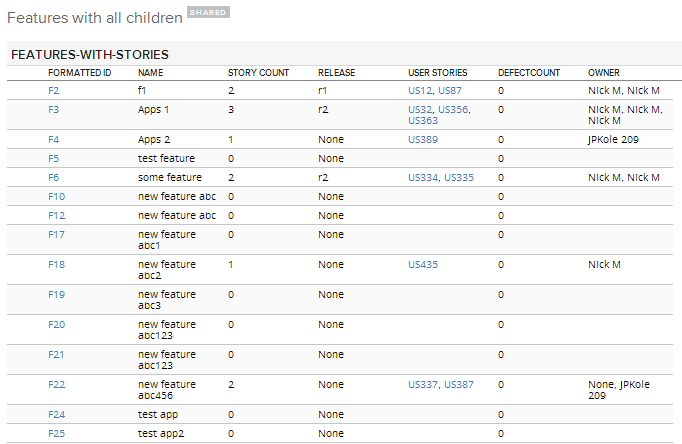
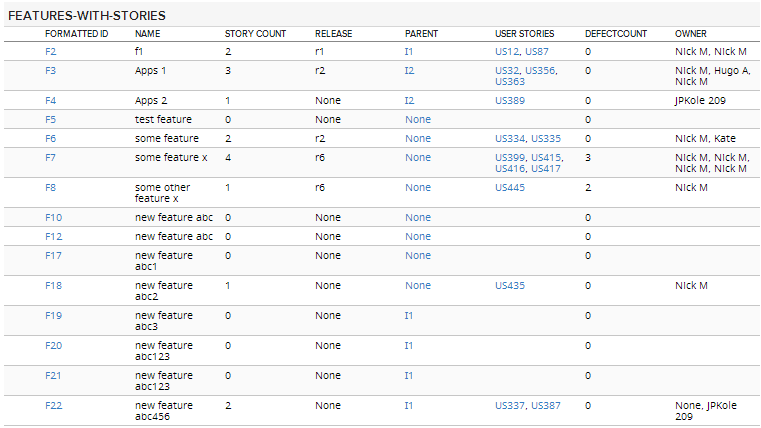
added Parent column

diff --git a/deploy/App.html b/deploy/App.html
@@ -16,7 +16,7 @@ Ext.define('CustomApp', {
     launch: function() {
         Ext.create('Rally.data.WsapiDataStore', {
             model: 'PortfolioItem/Feature',
-            fetch: ['FormattedID','Name','UserStories', 'Release'],
+            fetch: ['FormattedID','Name','UserStories', 'Release' ,'Parent'],
             pageSize: 100,
             autoLoad: true,
             listeners: {
@@ -30,11 +30,14 @@ Ext.define('CustomApp', {
                 var features = [];
                 var pendingstories = data.length;
                 Ext.Array.each(data, function(feature) {
+                            var parent = feature.get('Parent');
+                            
                             var f  = {
                                 FormattedID: feature.get('FormattedID'),
                                 Name: feature.get('Name'),
                                 Release: (feature.get('Release') && feature.get('Release')._refObjectName) || 'None',
                                 _ref: feature.get("_ref"),
+                                Parent: (parent && parent.FormattedID) || 'None',
                                 StoryCount: feature.get('UserStories').Count,
                                 DefectCount: 0,
                                 UserStories: []
@@ -66,10 +69,10 @@ Ext.define('CustomApp', {
     _createGrid: function(features) {
          this.add({
             xtype: 'rallygrid',
-            //enableBulkEdit: true,
             store: Ext.create('Rally.data.custom.Store', {
                 data: features,
-                pageSize: 100
+                pageSize: 100,
+                remoteSort:false
             }),
             
             columnCfgs: [
@@ -85,6 +88,12 @@ Ext.define('CustomApp', {
                 },
                 {
                     text: 'Release', dataIndex: 'Release'
+                },
+                {
+                    text: 'Parent', dataIndex: 'Parent',
+                   renderer: function(parent) {
+                        return ('<a href="' + Rally.nav.Manager.getDetailUrl(parent) + '">' + parent + '</a>');
+                   }
                 },
                 {
                     text: 'User Stories', dataIndex: 'UserStories', 

diff --git a/src/App.js b/src/App.js
@@ -5,7 +5,7 @@ Ext.define('CustomApp', {
     launch: function() {
         Ext.create('Rally.data.WsapiDataStore', {
             model: 'PortfolioItem/Feature',
-            fetch: ['FormattedID','Name','UserStories', 'Release'],
+            fetch: ['FormattedID','Name','UserStories', 'Release' ,'Parent'],
             pageSize: 100,
             autoLoad: true,
             listeners: {
@@ -19,11 +19,14 @@ Ext.define('CustomApp', {
                 var features = [];
                 var pendingstories = data.length;
                 Ext.Array.each(data, function(feature) {
+                            var parent = feature.get('Parent');
+                            
                             var f  = {
                                 FormattedID: feature.get('FormattedID'),
                                 Name: feature.get('Name'),
                                 Release: (feature.get('Release') && feature.get('Release')._refObjectName) || 'None',
                                 _ref: feature.get("_ref"),
+                                Parent: (parent && parent.FormattedID) || 'None',
                                 StoryCount: feature.get('UserStories').Count,
                                 DefectCount: 0,
                                 UserStories: []
@@ -55,10 +58,10 @@ Ext.define('CustomApp', {
     _createGrid: function(features) {
          this.add({
             xtype: 'rallygrid',
-            //enableBulkEdit: true,
             store: Ext.create('Rally.data.custom.Store', {
                 data: features,
-                pageSize: 100
+                pageSize: 100,
+                remoteSort:false
             }),
             
             columnCfgs: [
@@ -74,6 +77,12 @@ Ext.define('CustomApp', {
                 },
                 {
                     text: 'Release', dataIndex: 'Release'
+                },
+                {
+                    text: 'Parent', dataIndex: 'Parent',
+                   renderer: function(parent) {
+                        return ('<a href="' + Rally.nav.Manager.getDetailUrl(parent) + '">' + parent + '</a>');
+                   }
                 },
                 {
                     text: 'User Stories', dataIndex: 'UserStories', 
